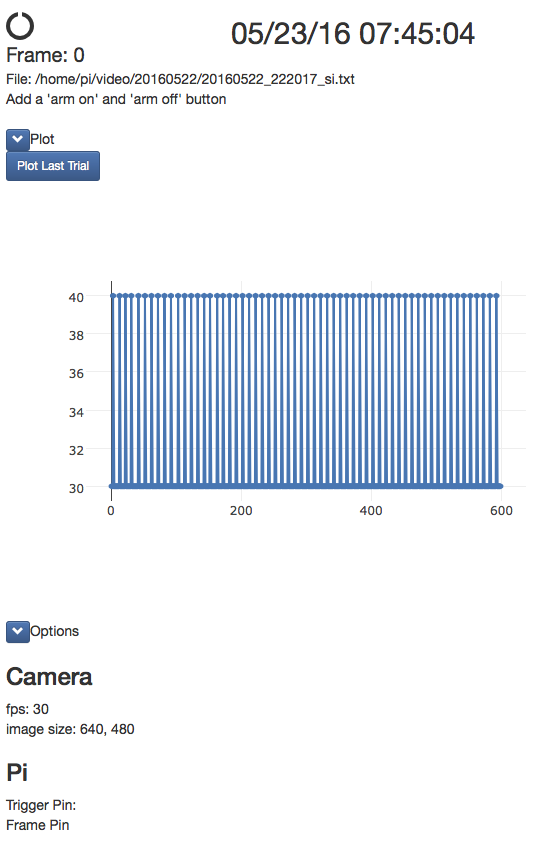
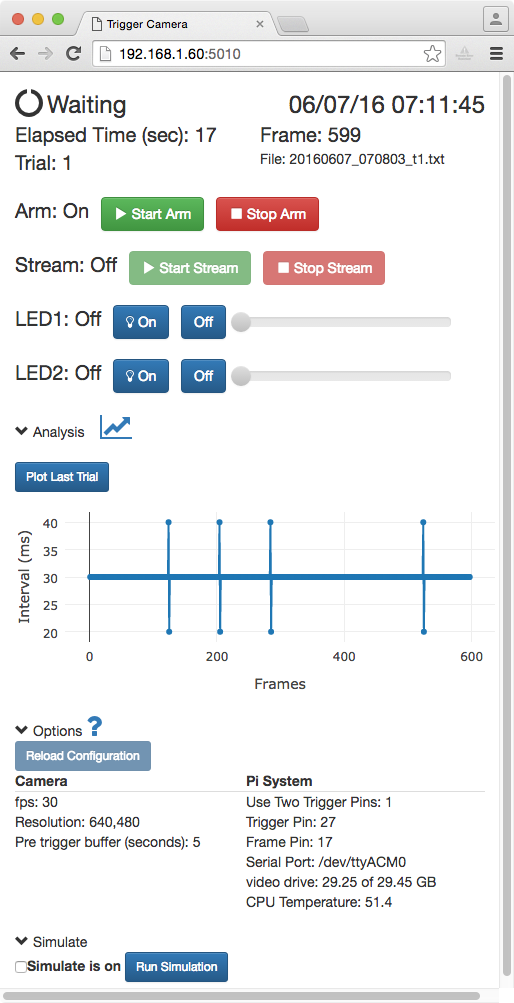
Deployed 90657bb with MkDocs version: 0.15.3

diff --git a/index.html b/index.html
@@ -138,8 +138,6 @@
         
             <li><a href="#web-interface">Web interface</a></li>
         
-            <li><a href="#streaming-video-in-the-web-interface">Streaming video in the web interface</a></li>
-        
     
         <li class="main "><a href="#user-configuration">User configuration</a></li>
         
@@ -170,10 +168,14 @@
                 <div class="col-md-9" role="main">
 
 <h1 id="trigger-camera">Trigger Camera</h1>
-<p>This is a Raspberry Pi camera that responds to general purpose digital input-output (GPIO) pulses to start and stop video acquisition during an experiment. During video acquisition, external events such as frame times on a scanning microscope are watermarked on the video and saved to a text file. The camera can be controlled from a Python command prompt, via a web browser, or using a hardware LCD/keypad.</p>
-<p><IMG SRC="img/triggercamera-minimized2.png" WIDTH=450 style="border:1px solid gray"></p>
+<p>This is documentation to construct a system with a Raspberry Pi computer that responds to general purpose digital input-output (GPIO) pulses to start and stop video acquisition during an experiment. External events such as frame times on a scanning microscope are watermarked on the video and saved to a text file. The camera can be controlled from a Python command prompt or with a web browser.</p>
+<p><IMG SRC="img/triggercamera-minimized.png" WIDTH=450 align="left" style="border:1px solid gray; margin:10px 20px""></p>
+<p><BR>
+<strong>Figure 1. Web-browser interface.</strong></p>
+<p>Example web interface for the Trigger Camera. See <a href="./webhelp">web help</a> for more information</p>
+<p><BR CLEAR="ALL"/></p>
 <h1 id="overview">Overview</h1>
-<p>This Raspberry Pi camera is designed to integrate into our <a href="http://cudmore.github.io/treadmill">Treadmill</a> system. The Treadmill system is advantageous if an Arduino is needed to precisely control other pieces of equipment like LEDs, motors, or valves.</p>
+<p>This Raspberry Pi Trigger Camera camera is designed to integrate into our <a href="http://cudmore.github.io/treadmill">Treadmill</a> system. The Treadmill system is advantageous if an Arduino is needed to precisely control other pieces of equipment like LEDs, motors, or valves.</p>
 <h2 id="the-raspberry-pi">The Raspberry Pi</h2>
 <p>The Raspberry Pi is a low cost ($35) computer that runs Linux. In addition to USB, ethernet, and HDMI connectors, the Raspberry Pi has a dedicated camera port and GPIO ports. Both the camera and GPIO ports can be easily programmed using Python. The Raspberry Pi provides an end-to-end open source system. Both the hardware and the software is provided by <a href="https://www.raspberrypi.org">The Raspberry Pi Foundation</a> and is actively maintained and extended by an active developer community.</p>
 <h2 id="software-implementation">Software implementation</h2>
@@ -268,7 +270,7 @@
 </table>
 <h2 id="limitations">Limitations</h2>
 <p>The Raspberry Pi runs Linux and like other operating systems including Microsoft Windows and Mac OS it is not real time. There will always be unpredictable delays in the detection and generation of GPIO pulses. If the detection of a fast pulse or the timing of a pulse is critical for an experiment it is strongly suggested to use a more precise microcontroller like an Arduino.</p>
-<p>See the <strong>Analysis</strong> section for example Python code to test the limits of this precision.</p>
+<p>See the <a href=".#analysis">Analysis</a> section for example Python code to test the limits of this precision.</p>
 <!--
 ## TTL versus GPIO
 
@@ -353,7 +355,7 @@ Transistor–transistor logic (TTL) and general-purpose input/output (GPIO) are 
 </tr>
 <tr>
 <td>4</td>
-<td>xxx Ohm resistors</td>
+<td>Resistors</td>
 <td>One for each IR LED</td>
 <td>$7 (for 500 pack)</td>
 <td><a href="https://www.sparkfun.com/products/10969?gclid=Cj0KEQjwjoC6BRDXuvnw4Ym2y8MBEiQACA-jWTV674jgG9mRsuvTandLS6fLJtRMrtjP72GI4fvFieAaAjWH8P8HAQ">link</a></td>
@@ -384,7 +386,7 @@ Transistor–transistor logic (TTL) and general-purpose input/output (GPIO) are 
 <li>StartUpMailer to have the Raspberry Pi email with its IP address when it boots</li>
 </ul>
 <h2 id="choosing-the-triggers">Choosing the triggers</h2>
-<p>There are two different trigger options. These are set in the <a href="https://github.com/cudmore/triggercamera/blob/master/config.ini">config.ini</a> file using <code>useTwoTriggerPins: 1</code></p>
+<p>There are two different trigger options. These are set in the <a href="https://github.com/cudmore/triggercamera/blob/master/config.ini">config.ini</a> file using <code>useTwoTriggerPins</code></p>
 <ul>
 <li>Two trigger pins, one for triggering start/stop of video and a second for triggering frames. This is the preferred triggering system. This is used to interface with a <a href="https://www.bruker.com/products/fluorescence-microscopes/ultima-multiphoton-microscopy.html">Bruker</a> microscope.</li>
 <li>One trigger pin for both trigger and frames. This is used to interface with a microscope running <a href="http://scanimage.vidriotechnologies.com/pages/viewpage.action?pageId=361641">ScanImage</a> software.</li>
@@ -393,23 +395,18 @@ Transistor–transistor logic (TTL) and general-purpose input/output (GPIO) are 
 <ul>
 <li>Connect camera to Raspberry Pi</li>
 <li>Connect signal and ground of GPIO/TTL cables from other equipment to the Raspberry Pi (be sure to convert incoming 5V GPIO to 3.5V)</li>
-<li>Connect IR LEDs to the Raspberry Pi. If LEDs need a lot of power, hook them up with a 5V relay and an external 12V power supply.<ul>
-<li>See <a href="http://www.raspberrypi-spy.co.uk/2012/06/control-led-using-gpio-output-pin/">this tutorial</a> to wire a 5V LED to the Raspberry Pi.</li>
-</ul>
-</li>
+<li>Connect IR LEDs to the Raspberry Pi. If LEDs need a lot of power, hook them up with a 5V relay and an external 12V power supply. See <a href="http://www.raspberrypi-spy.co.uk/2012/06/control-led-using-gpio-output-pin/">this tutorial</a> to wire a 5V LED to the Raspberry Pi.</li>
 </ul>
 <p><code>**Important:**</code> The Raspberry Pi can only accept GPIO signals at 3.5V. Many devices use 5V for GPIO/TTL signals. Thus, a level shifter is needed to convert 5V to 3.5V. It is easy to make a <a href="https://learn.sparkfun.com/tutorials/voltage-dividers">voltage divider</a> by hand or to buy a pre-made <a href="https://www.adafruit.com/product/757">voltage level shifter</a>.</p>
 <p><IMG SRC="img/gpio-pinout-v2.png" WIDTH=700></p>
 <h2 id="install-required-software">Install required software</h2>
 <h3 id="clone-github-repository">Clone github repository</h3>
-<pre><code>mkdir Sites
-cd Sites
-git clone https://github.com/cudmore/triggercamera.git
+<p>This will download all the neccessary code into a directory named 'triggercamera'</p>
+<pre><code>git clone https://github.com/cudmore/triggercamera.git
 </code></pre>
 <h3 id="run-install-script">Run install script</h3>
-<p>We provide a ./install.sh script to install all reuquired libraries. If this script fails, try installing manually.</p>
-<pre><code>cd /home/pi/Sites/triggercamera
-chmod +x ./install.sh
+<p>We provide a ./install.sh script to install all required libraries. If this script fails, try installing manually.</p>
+<pre><code>cd triggercamera
 ./install.sh
 </code></pre>
 <h3 id="installing-required-python-libraries-manual">Installing required Python libraries (manual)</h3>
@@ -431,23 +428,25 @@ pip install flask-socketio
 pip install platformio #to upload code to arduino
 </code></pre>
 <h2 id="arduino">Arduino</h2>
+<p>Optional Arduino code is provided in <a href="https://github.com/cudmore/triggercamera/tree/master/arduino/bExperiment">triggercamera/arduino</a>. This code uses an Arduino as a 'pass through' device, receiving 5V TTL pulses and passing them along to the Raspberry Pi at 3.5V (assuming an Arduino Teensy). The Arduino code will also <a href="https://github.com/cudmore/triggercamera/blob/master/arduino/bExperiment/lib/bSimulateScope/bSimulateScope.h">simulate a microscope</a>, sending GPIO triggers for 'trial' and 'frame'.</p>
 <p>We strongly suggest using an Arduino <a href="https://www.pjrc.com/store/teensy3.html">Teensy</a>. The Teensy is (i) fast, (ii) has lots of memory, (iii) accepts 5V GPIO and outputs 3.5V, and (iv) all GPIO pins can be assigned as low level interrupts.</p>
-<p>Arduino code is provided in <a href="https://github.com/cudmore/triggercamera/tree/master/arduino/bExperiment">/arduino</a>. This code uses an Arduino as a 'pass through' device, receiving 5V TTL pulses and passing them along to the Raspberry Pi at 3.5V. The Arduino code will also <a href="https://github.com/cudmore/triggercamera/blob/master/arduino/bExperiment/lib/bSimulateScope/bSimulateScope.h">simulate a microscope</a>, sending triggers for 'trial' and 'frame'.</p>
-<p>See <a href="http://blog.cudmore.io/post/2016/02/07/platformio/">this blog post</a> on installing and configuring PlatformIO and an Arduino on a Raspberry Pi.</p>
-<p>Once PlatformIO is installed and configured to talk to an Arduino Teensy, upload code to an Arduino using</p>
-<pre><code>cd /home/pi/triggercamera/arduino/bExperiment
+<p>PlatformIO is a command line interface to compile and upload code to an Arduino. It is easy to run at the command prompt on a Raspberry Pi. See <a href="http://blog.cudmore.io/post/2016/02/07/platformio/">this blog post</a> on installing and configuring PlatformIO.</p>
+<p>Once PlatformIO is installed and configured to talk to an Arduino, upload code to an Arduino using</p>
+<pre><code>cd triggercamera/arduino/bExperiment
 platformio run --target upload
 </code></pre>
-<p>The correct serial port needs to be specified in <a href="https://github.com/cudmore/triggercamera/blob/master/config.ini">config.ini</a></p>
+<p>The correct serial port needs to be specified in <a href="https://github.com/cudmore/triggercamera/blob/master/config.ini">config.ini</a>. Find the Arduinos serial port by looking for something like ttyACM0 in</p>
+<pre><code>ls /dev/tty*
+</code></pre>
 <h1 id="running-the-camera">Running the camera</h1>
 <h2 id="live-video-output">Live video output</h2>
 <p>The primary interface for controlling the camera is through the Python command prompt or a web browser. An added feature is a real-time video can be viewed on an external video monitor. This is as simple as connecting the RCA plug on the Raspberry Pi to an external video monitor (not a computer monitor). Using this live video feed does not interfere with any of the Python or web browser code that interacts with the camera to trigger and save video.</p>
 <p><strong>NOTE:</strong> The Raspberry Pi 2/3 uses a 3.5mm audio plug for both audio and composite video out. See <a href="http://www.raspberrypi-spy.co.uk/2014/07/raspberry-pi-model-b-3-5mm-audiovideo-jack/">here</a>.</p>
 <h2 id="python-command-line">Python command line</h2>
 <p>The <a href="http://www.ipython.org">iPython</a> command line interface should be used.</p>
-<p>With <a href="https://github.com/cudmore/triggercamera/blob/master/triggercamera.py">triggercamera.py</a>, the camera can be controlled with a Python command line. Once the camera is armed with 'ArmTrigger()' it will start and stop video recording following GPIO triggers.</p>
+<p>With <a href="https://github.com/cudmore/triggercamera/blob/master/triggercamera.py">triggercamera.py</a>, the camera can be controlled with a Python command line. Once the camera is armed with 'startArm()', it will start and stop video recording following GPIO triggers.</p>
 <pre><code>import triggercamera
-tc=triggercamera.TriggerCamera()
+tc = triggercamera.TriggerCamera()
 tc.startArm() #arm the camer to respond to triggers
 
 tc.stopArm() #stop the camera from responding to trigger
@@ -464,12 +463,18 @@ tc.doTimelapse=0
 # todo: add interface to control two different LEDs
 </code></pre>
 <h2 id="web-interface">Web interface</h2>
-<p><a href="https://github.com/cudmore/triggercamera/blob/master/triggercamera_app.py">triggercamera_app.py</a> provides a web server allowing the camera to be controlled through a web browser. The web server is run using <a href="http://flask.pocoo.org">Flask</a> and provides a REST api as a wrapper to interact with the triggercamera.py Python code.</p>
-<p>Run a web server with</p>
+<p><a href="https://github.com/cudmore/triggercamera/blob/master/triggercamera_app.py">triggercamera_app.py</a> provides a web server allowing the camera to be controlled through a web browser.</p>
+<p>Run the web server with</p>
 <pre><code>python triggercamera_app.py
 </code></pre>
-<p>The server will be available on the local IP address of the machine running the code, in this case '192.168.1.12'. The server will run on port 5010.</p>
-<p>The camera can be controlled through a web browser as follows.</p>
+<p>Then, bring up the web page from a browser (we suggest Chrome) using the IP address of the Raspberry and port 5010</p>
+<pre><code>http://192.168.1.60:5010
+</code></pre>
+<p>Additional documentation on using this web interface is in the <a href="./webhelp">web help</a> page.</p>
+<h3 id="streaming-video-in-the-web-interface">Streaming video in the web interface</h3>
+<p>Optionally, real-time video can be streamed from the camera to the web interface. This requires <a href="http://www.linux-projects.org/modules/sections/index.php?op=viewarticle&amp;artid=14">uv4l</a> to be installed. See <a href="http://blog.cudmore.io/post/2016/06/05/uv4l-on-Raspberry-Pi/">this blog post</a> to install uv4l on a Raspberry Pi.</p>
+<h3 id="rest-interface">REST Interface</h3>
+<p>In addition to the point and click web interface, the web server provides a REST interface that can be remotely scripted using a set of <a href="https://en.wikipedia.org/wiki/Representational_state_transfer">REST</a> web addresses.</p>
 <pre><code>http://192.168.1.12:5010/startarm
 http://192.168.1.12:5010/stoparm
 http://192.168.1.12:5010/startvideo
@@ -478,8 +483,6 @@ http://192.168.1.12:5010/timelapseon
 http://192.168.1.12:5010/timelapseoff
 http://192.168.1.12:5010/lastimage
 </code></pre>
-<h2 id="streaming-video-in-the-web-interface">Streaming video in the web interface</h2>
-<p>Optionally, video can be streamed from the camera to the web interface. This requires <a href="http://www.linux-projects.org/modules/sections/index.php?op=viewarticle&amp;artid=14">uv4l</a> to be installed. See <a href="http://blog.cudmore.io/post/2016/06/05/uv4l-on-Raspberry-Pi/">this blog post</a> to install uv4l on a Raspberry Pi. Once the core (and open source) v4l2 is working on the Raspberry Pi, the code will be switched to use this.</p>
 <!--
 ## LCD and keypad interface
 
@@ -488,71 +491,82 @@ http://192.168.1.12:5010/lastimage
 
 <h1 id="user-configuration">User configuration</h1>
 <p>Modify <a href="https://github.com/cudmore/triggercamera/blob/master/config.ini">config.ini</a> and restart the camera code</p>
-<pre><code>[triggers]
-useTwoTriggerPins: True
-triggerpin: 4
+<pre><code>[serial]
+useSerial: True
+port: /dev/ttyACM0
+baud: 9600
+
+[system]
+savepath: /video
+
+watchedpathon: False
+watchedpath: ''
+
+[triggers]
+useTwoTriggerPins: 1
+triggerpin: 27
 framepin: 17
 
 [led]
-led1pin: 2
-led2pin: 3
+ledpin1: 2
+ledpin2: 3
 
 [camera]
 fps: 30
 resolution: 640,480
 bufferSeconds = 5
 
-watchedpathon: 1
-watchedpath: /video
-
-savepath: /video
+[simulatescope]
+on: 1
+initialDelay: 1
+frameInterval: 30
+frameNumber: 300
 </code></pre>
 <h1 id="output-video">Output video</h1>
-<p>Video is saved in the <a href="https://en.wikipedia.org/wiki/H.264/MPEG-4_AVC">h264</a> video format. This is a very efficient video codec that make very small but highly detailed videos. Before these h264 video files can be analyzed, they need to be converted to include the frames per second. This can be done in a number of video editing programs. One way to do this conversion is by using the command line program <a href="https://ffmpeg.org">ffmpeg</a>. Because ffmpeg can be scripted, it is easy to incorporated into most workflows.</p>
-<p>Use avconv</p>
+<p>Video is saved in the <a href="https://en.wikipedia.org/wiki/H.264/MPEG-4_AVC">h264</a> video format. This is a very efficient video codec that make very small but highly detailed videos. Before these h264 video files can be analyzed, they need to be converted to include the frames per second. This can be done in a number of video editing programs. One way to do this conversion is by using the command line program <a href="https://ffmpeg.org">ffmpeg</a>. Because ffmpeg can be scripted, it is easy to incorporated into most workflows. The status of ffmpeg on the Pi is confusing. Here, we use a fork (or a nasty illegal fork?) called avconv.</p>
+<p>Install avconv</p>
 <pre><code>sudo apt-get install libav-tools
 </code></pre>
 <p>Convert one .h264 file</p>
 <pre><code>avconv -r 30 -i 20160604_181119_after.h264 -vcodec copy 20160604_181119_after.mp4
-
-srcDir = '/src/dir/with/video'
-dstDir = 'dst/dir/for/mp4'
+</code></pre>
+<p>Pseudocode to convert a directory of .h264 files</p>
+<pre><code>srcDir = '/src/dir/with/video/'
+dstDir = 'dst/dir/for/mp4/'
 for file in srcDir:
-    outfile = file.strip('h264') + '.mp4'
-    ffmpeg -r 25 -i file dstDir+outfile
+    outfile = file.strip('.h264') + '.mp4'
+    avconv -r 25 -i file -vcodec copy dstDir+outfile
 </code></pre>
 <h1 id="output-files">Output files</h1>
 <p>Each time the camera is triggered to save video, a .txt file with frame times is also saved.</p>
-<p>Here are the first 5 frames of an output .txt file</p>
-<pre><code>fps=30,width=640,height=480,numFrames=300
+<p>Here are the first 5 frames of an output .txt file. The first line is a header, second line gives column names, third line is start of data.</p>
+<pre><code>date=20160606,time=223717,trial=1,fps=30,width=640,height=480,numFrames=1799,ardFrames=0
 date,time,seconds,event,frameNumber
-20160530,214450,1464659090.31,startVideo,
-20160530,214450,1464659090.34,scanImageFrame,2
-20160530,214450,1464659090.37,scanImageFrame,3
-20160530,214450,1464659090.4,scanImageFrame,4
-20160530,214450,1464659090.43,scanImageFrame,5
-20160530,214450,1464659090.47,scanImageFrame,6
+20160606,223623,1465266983.09,startVideo,
+20160606,223623,1465266983.12,numFrames,1
+20160606,223623,1465266983.15,numFrames,2
+20160606,223623,1465266983.18,numFrames,3
+20160606,223623,1465266983.21,numFrames,4
+20160606,223623,1465266983.24,numFrames,5
 </code></pre>
+<p><a name="analysis"></a></p>
 <h1 id="analysis">Analysis</h1>
 <h2 id="analyzing-output-txt-files">Analyzing output .txt files</h2>
 <p>We have provided Python code to load, analyze and plot the output .txt files. See <a href="https://github.com/cudmore/triggercamera/blob/master/analysis/analysis_v1.ipynb">an example iPython notebook</a>. Because the Raspberry Pi is not configured with a keyboard/mouse/monitor, this code can be run on a different machine using an iPython notebook.</p>
 <p>Bring up an iPython web interface</p>
 <pre><code># if your Raspberry Pi is on the network at 'pi60'
-cd /Volumes/pi60/Sites/triggercamera/analysis/
+cd /Volumes/pi60/triggercamera/analysis/
 ipython notebook
 </code></pre>
-<p>Here is an analysis of the frame interval detected by the Raspberry Pi and a good example of some of the limitations. Using <a href="https://github.com/cudmore/triggercamera/blob/master/arduino/v2/src/v2.cpp">/arduino/v2/src/v2.cpp</a> an Arduino output a frame pulse every 31 ms.</p>
-<ul>
-<li>The Raspberry Pi can miss frames</li>
-<li>The Raspberry Pi can detect frames late</li>
-</ul>
-<p><IMG SRC="img/analysis_v2.png"></p>
+<p>Here is an analysis of the frame interval detected by the Raspberry Pi and a good example of some of the limitations. Using <a href="https://github.com/cudmore/triggercamera/tree/master/arduino/bExperiment">/arduino/bExperiment/src/bExperiment.cpp</a> an Arduino output a frame pulse every 30 ms.</p>
+<p>In general, the Raspberry Pi does not miss frames but  can occasionally detect frames late. The performance of the Pi can be degraded if additional software is run on the Pi. In general, keep it minimal.</p>
+<p><IMG SRC="img/analysis-example.png"></p>
 <h2 id="analyzing-video">Analyzing video</h2>
 <p>We will provide Python code using <a href="http://opencv.org">OpenCV</a> to load and browse video files.</p>
 <h1 id="add-ons">Add ons</h1>
 <p>By creating a system with a Raspberry Pi there are a large number of ways to quickly and cheaply extend the system in very useful ways.</p>
 <ul>
-<li>Add an Arduino microcontroller</li>
+<li>[Done] Add an Arduino microcontroller</li>
 <li>Add an LCD/button controller</li>
 <li>Add a touch-screen interface</li>
 </ul>
@@ -629,5 +643,5 @@ ipython notebook
 
 <!--
 MkDocs version : 0.15.3
-Build Date UTC : 2016-06-06 14:00:13.807794
+Build Date UTC : 2016-06-07 11:50:21.889988
 -->

diff --git a/webhelp/index.html b/webhelp/index.html
@@ -105,12 +105,14 @@
     
         <li class="main "><a href="#maximized">Maximized</a></li>
         
-    
-        <li class="main "><a href="#interface">Interface</a></li>
-        
             <li><a href="#analysis">Analysis</a></li>
         
             <li><a href="#options">Options</a></li>
+        
+            <li><a href="#simulate">Simulate</a></li>
+        
+    
+        <li class="main "><a href="#analysis_1">Analysis</a></li>
         
     
     </ul>
@@ -118,22 +120,29 @@
                 <div class="col-md-9" role="main">
 
 <h1 id="minimized">Minimized</h1>
-<p><IMG SRC="../img/triggercamera-minimized2.png" WIDTH=450 style="border:1px solid gray"></p>
+<p><IMG SRC="../img/triggercamera-minimized.png" WIDTH=450 style="border:1px solid gray"></p>
 <!-- <IMG SRC="../img/triggercamera-minimized.png" WIDTH=450 style="border:1px solid gray"> -->
 
 <p>The top section of the interface provides feedback on the camera status. When a trial is running and video is being recorded, the spinner will spin and <strong>Elapsed Time</strong>, <strong>Frame</strong>, <strong>Trial</strong>, and <strong>File</strong> will update.</p>
 <p>Use the <strong><font style="color:green">Start Arm</font></strong> and <strong><font style="color:red">Stop Arm</font></strong> buttons to turn the listening for a trigger on and off.</p>
+<p>Use the <strong><font style="color:green">Start Stream</font></strong> and <strong><font style="color:red">Stop Stream</font></strong> buttons to turn real-time video streaming on and off.</p>
 <p>If LEDs are wired to the Raspberry Pi, LED1 and LED2 provide an interface to turn them on and off as well as to set their brightness levels.</p>
 <h1 id="maximized">Maximized</h1>
-<p><IMG SRC="../img/triggercamera-maximized2.png" WIDTH=450 style="border:1px solid gray"></p>
+<p><IMG SRC="../img/triggercamera-maximized.png" WIDTH=450 style="border:1px solid gray"></p>
 <!-- <IMG SRC="../img/triggercamera-maximized.png" WIDTH=450 style="border:1px solid gray"> -->
 
-<h1 id="interface">Interface</h1>
+<p>When maximized, there are additional sections for analysis, options, and simulation of a microscope triggers.</p>
 <h2 id="analysis">Analysis</h2>
-<p>The <strong>Plot Last Trial</strong> button will generate a plot of frame-intervals versus frame number for the last trial. This can be used to verify that frame triggering is working as expected.</p>
+<p>The <strong>Plot Last Trial</strong> button will generate a plot of frame-intervals versus frame number for the last trial. This can be used to verify that frame triggering is working as expected. In this example, the majority of 600 frames had an  interval of 30 ms with 4 bad frames.</p>
+<p>Bring up the Analysis page (with the line graph icon) to make the same plot for any trials previously recorded.</p>
 <h2 id="options">Options</h2>
 <p>Displays the current camera and system configuration. This includes camera frames-per-second (fps) and image size. This also includes the GPIO pin numbers for trigger and frame.</p>
-<p>In the future, this section will be editable to change these parameters. For now, the software needs to be stopped, config.ini edited and then the software should be restarted.</p></div>
+<p>To change options, manually edit the config.ini file and then 'REload Configuration'.</p>
+<h2 id="simulate">Simulate</h2>
+<p>If configured, will use an Arduino to simulate trial and frame triggers of a microscope. This is useful for debugging the camera.</p>
+<h1 id="analysis_1">Analysis</h1>
+<p><IMG SRC="../img/triggercamera-analysis.png" WIDTH=550 style="border:1px solid gray"></p>
+<p>The analysis page displays a list of trials that have been acquired with the camera. Double-click on a trial (row) to display the timing of the frames.</p></div>
             
         </div>
 
